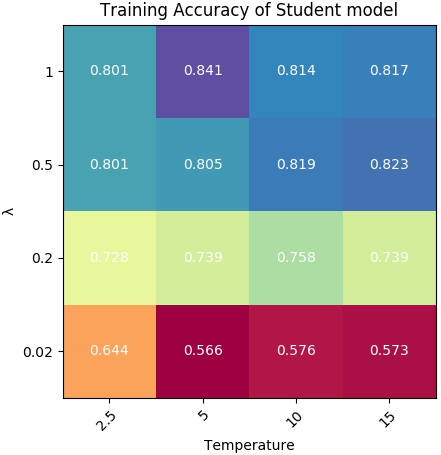
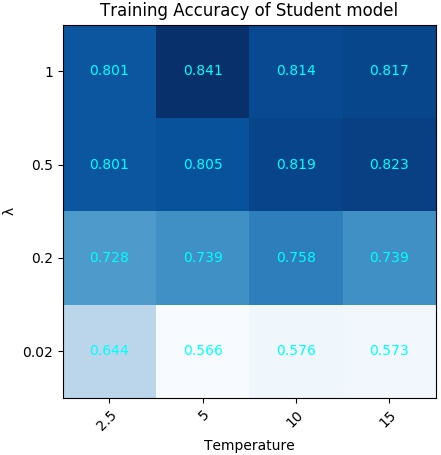
analysis complete

diff --git a/analysis/student_squeezenet_parameter_heatmap.py b/analysis/student_squeezenet_parameter_heatmap.py
@@ -64,14 +64,14 @@ fig4, ax4 = plt.subplots()
 fig5, ax5 = plt.subplots()
 fig6, ax6 = plt.subplots()
 
-im = ax.imshow(acc,cmap='Spectral')
-im2 = ax2.imshow(val_acc,cmap='Spectral')
+im = ax.imshow(acc,cmap='Blues')
+im2 = ax2.imshow(val_acc,cmap='Blues')
 
-im3 = ax3.imshow(top5,cmap='Spectral')
-im4 = ax4.imshow(val_top5,cmap='Spectral')
+im3 = ax3.imshow(top5,cmap='Blues')
+im4 = ax4.imshow(val_top5,cmap='Blues')
 
-im5 = ax5.imshow(logloss,cmap='Spectral')
-im6 = ax6.imshow(val_logloss,cmap='Spectral')
+im5 = ax5.imshow(logloss,cmap='Blues')
+im6 = ax6.imshow(val_logloss,cmap='Blues')
 
 # We want to show all ticks...
 ax.set_xticks(np.arange(len(temps)))
@@ -116,17 +116,17 @@ plt.setp(ax6.get_xticklabels(), rotation=45, ha="right",
 for i in range(len(lamdas)):
     for j in range(len(temps)):
         text = ax.text(j, i, acc[i, j],
-                       ha="center", va="center", color="w")
+                       ha="center", va="center", color="cyan")
         text2 = ax2.text(j, i, val_acc[i, j],
-                       ha="center", va="center", color="w")
+                       ha="center", va="center", color="cyan")
         text3 = ax3.text(j, i, top5[i, j],
-                       ha="center", va="center", color="w")
+                       ha="center", va="center", color="cyan")
         text4 = ax4.text(j, i, val_top5[i, j],
-                       ha="center", va="center", color="w")
+                       ha="center", va="center", color="cyan")
         text5 = ax5.text(j, i, logloss[i, j],
-                       ha="center", va="center", color="w")
+                       ha="center", va="center", color="cyan")
         text6 = ax6.text(j, i, val_logloss[i, j],
-                       ha="center", va="center", color="w")
+                       ha="center", va="center", color="cyan")
 ax.set_title("Training Accuracy of Student model")
 ax.set_xlabel("Temperature")
 ax.set_ylabel("λ")
@@ -161,5 +161,5 @@ fig4.savefig('DistilledSqueezenetValTop5Acc.jpg', bbox_inches = 'tight', pad_inc
 fig5.savefig('DistilledSqueezenetTrainingLogloss.jpg', bbox_inches = 'tight', pad_inches = 0.02)
 fig6.savefig('DistilledSqueezenetValLogLoss.jpg', bbox_inches = 'tight', pad_inches = 0.02)
 
-#plt.show()
+plt.show()
 

diff --git a/analysis/new_plot.py b/analysis/new_plot.py
@@ -1,0 +1,49 @@
+import matplotlib.pyplot as plt
+from mpl_toolkits.axes_grid1 import make_axes_locatable
+from mpl_toolkits.axes_grid1.axes_divider import make_axes_area_auto_adjustable
+from matplotlib.patches import Ellipse
+
+
+
+fig, ax = plt.subplots()
+ax.set_yticks([0.2,0.4,0.6,0.8])
+ax.set_xticks([0.8,2.5,5,10,20,30])
+plt.grid(True)
+
+make_axes_area_auto_adjustable(ax)
+
+
+el = Ellipse((21.386024, 0.835), width=1.5, height=2/30, angle=0)  # in data coordinates!
+el2 = Ellipse((0.853824, 0.672), width=1.5, height=2/30, angle=0, color = 'g')  # in data coordinates!
+
+ax.add_artist(el2)
+ax.add_artist(el)
+ax.set_xlabel('Number of Parameters [million]')
+ax.set_ylabel('Top-1 Accuracy [%]')
+
+fig.tight_layout()
+fig.savefig('acc_vs_Nparameters.jpg', bbox_inches = 'tight', pad_inches = 0.025) #
+
+fig2, ax2 = plt.subplots()
+ax2.set_yticks([67.2,69.6,83.5])
+ax2.set_xticks([0.8,21.3,30])
+ax2.set_ylim(60,90)
+plt.grid(True)
+
+make_axes_area_auto_adjustable(ax2)
+
+el = Ellipse((21.386024, 83.5), width=1.0, height=100/75, angle=0)  # in data coordinates!
+el2 = Ellipse((0.853824, 67.2), width=1.0, height=100/75, angle=0, color = 'g')  # in data coordinates!
+el2new = Ellipse((0.853824, 69.6), width=1.0, height=100/75, angle=0, color = 'blue')  # in data coordinates!
+
+ax2.add_artist(el2)
+ax2.add_artist(el)
+ax2.add_artist(el2new)
+
+ax2.set_xlabel('Number of Parameters [million]')
+ax2.set_ylabel('Top-1 Accuracy [%]')
+
+fig2.tight_layout()
+fig2.savefig('acc_vs_Nparameters_newV2.jpg', bbox_inches = 'tight', pad_inches = 0.025) #
+
+plt.show()

diff --git a/utils/knowledge_distallion_loss_fn.py b/utils/knowledge_distallion_loss_fn.py
@@ -16,4 +16,5 @@ def knowledge_distillation_loss(y_true, y_pred, lambda_const,temperature):
     #    probabilities made softer with temperature
     y_pred, y_pred_soft = y_pred[:, :256], y_pred[:, 256:]
 
-    return lambda_const * logloss(y_true, y_pred) + logloss(y_soft, y_pred_soft)
+    return
+
